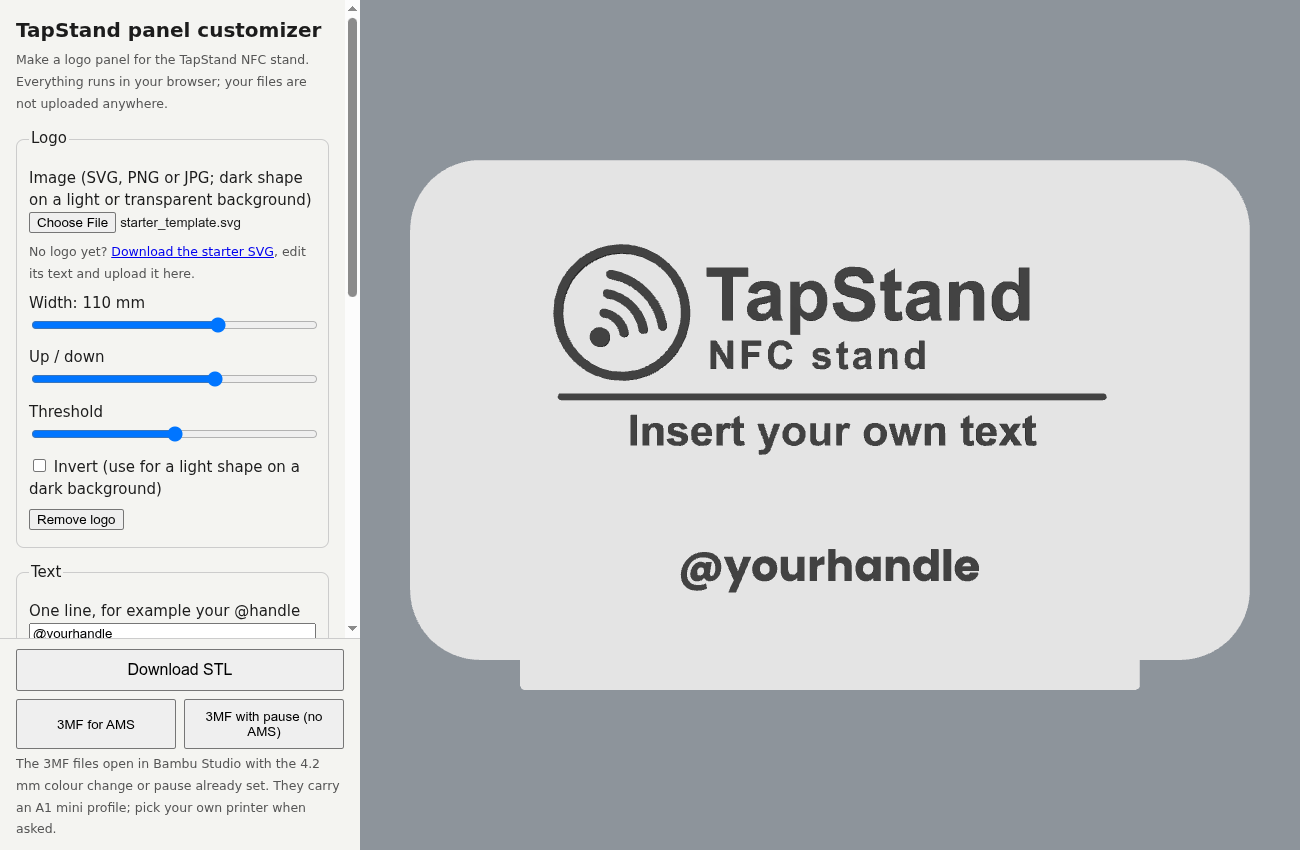
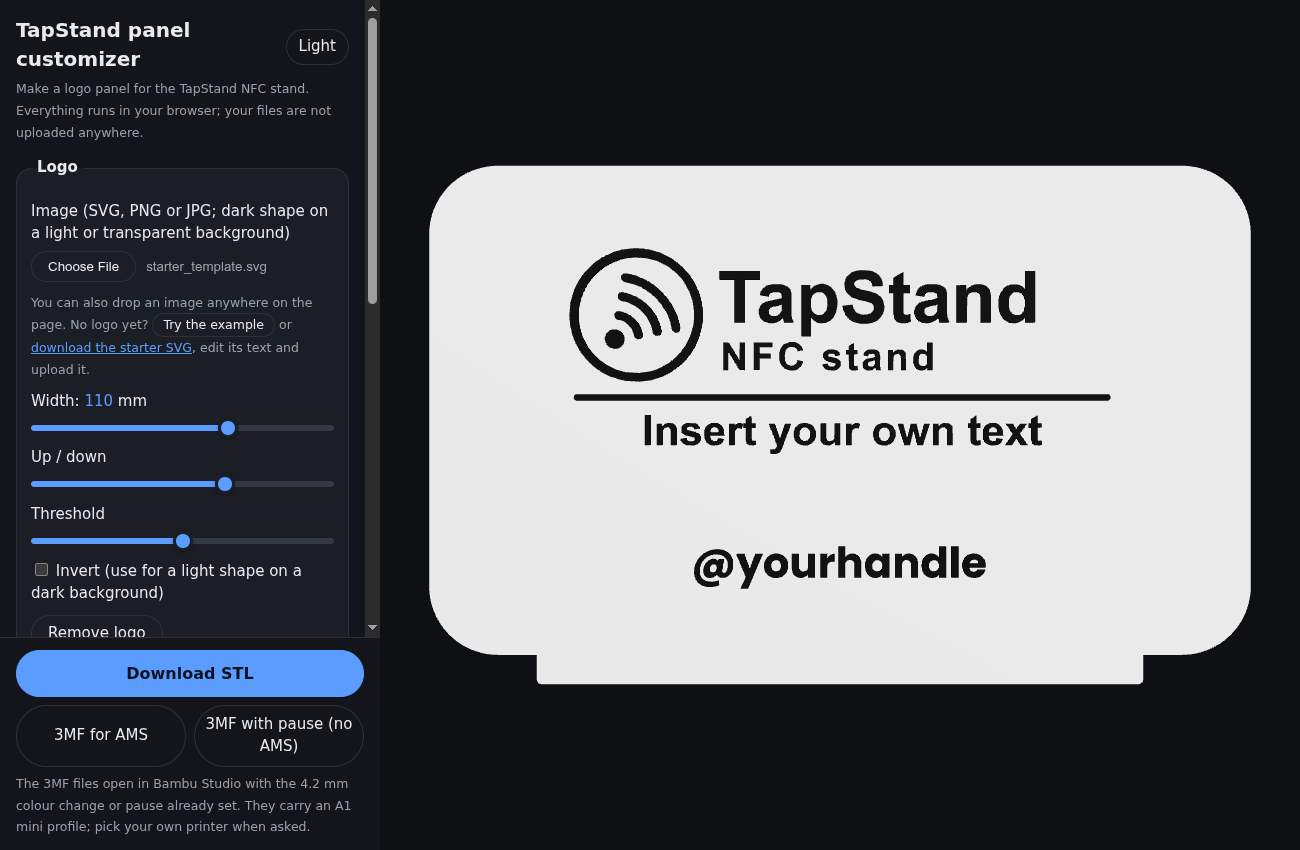
New look and easier controls
Dark theme with a light switch, instant slider preview, drag and drop,
an example button, colour pickers and a collapsible print guide.

diff --git a/index.html b/index.html
@@ -7,40 +7,92 @@
 <link rel="icon" href="data:,">
 <script type="importmap">{ "imports": { "three": "./vendor/three.module.js" } }</script>
 <style>
-  body { margin: 0; font: 15px/1.45 system-ui, sans-serif; color: #1c1c1c; background: #f4f4f1; }
+  /* Dark is the default; the button in the header switches to light and the choice is remembered. */
+  :root { color-scheme: dark; --bg: #13151a; --card: #1b1e25; --line: #2b303a; --text: #e8eaf0; --muted: #98a1b0;
+          --accent: #5b9dff; --on-accent: #0b1220; --track: #333945; --err: #ff7b7b; --warn: #f2b25c; --scene: #0e1014; }
+  :root[data-theme=light] { color-scheme: light; --bg: #f4f4f1; --card: #ffffff; --line: #d6d6d0; --text: #1c1c1c; --muted: #5c6068;
+          --accent: #2563eb; --on-accent: #ffffff; --track: #d5d8de; --err: #b00020; --warn: #8a4b00; --scene: #8d949b; }
+  body { margin: 0; font: 15px/1.45 system-ui, sans-serif; color: var(--text); background: var(--bg); }
   /* Desktop: the form scrolls in its own cell; the bar with errors, warnings and Download stays under it. */
-  main { display: grid; grid-template: minmax(0, 1fr) auto / minmax(280px, 360px) 1fr; height: 100vh; height: 100dvh; }
+  main { display: grid; grid-template: minmax(0, 1fr) auto / minmax(300px, 380px) 1fr; height: 100vh; height: 100dvh; }
   form { padding: 16px 16px 0; overflow: auto; }
-  #bar { grid-area: 2 / 1; padding: 10px 16px; background: #f4f4f1; border-top: 1px solid #ccc; max-height: 40vh; overflow: auto; }
+  #bar { grid-area: 2 / 1; padding: 12px 16px; background: var(--bg); border-top: 1px solid var(--line); max-height: 40vh; overflow: auto; }
   #bar p, #bar ul { margin: 0; }
   #bar p:not(:empty), #bar ul:not(:empty) { margin-bottom: 8px; }
+  header { display: flex; align-items: center; justify-content: space-between; gap: 8px; }
   h1 { font-size: 20px; margin: 0 0 4px; }
-  fieldset { border: 1px solid #ccc; border-radius: 8px; margin: 14px 0; padding: 10px 12px; }
-  label { display: block; margin: 8px 0; }
-  input[type=range], input[type=text], select { width: 100%; box-sizing: border-box; }
-  .err { color: #b00020; margin: 6px 0 0; }
-  #warn { color: #8a4b00; padding-left: 18px; }
-  #dl { font-size: 16px; padding: 10px 16px; width: 100%; }
-  #dl3 { display: flex; gap: 8px; margin: 8px 0 4px; }
+  a { color: var(--accent); }
+  fieldset { border: 1px solid var(--line); border-radius: 16px; background: var(--card); margin: 14px 0; padding: 12px 14px; }
+  legend { padding: 0 6px; font-weight: 600; }
+  label { display: block; margin: 10px 0; }
+  output { font-variant-numeric: tabular-nums; color: var(--accent); }
+  input[type=text], select { width: 100%; box-sizing: border-box; margin-top: 4px; padding: 8px 12px; border-radius: 12px;
+    border: 1px solid var(--line); background: var(--bg); color: var(--text); font: inherit; }
+  input[type=text]:focus-visible, select:focus-visible, button:focus-visible, input[type=range]:focus-visible { outline: 2px solid var(--accent); outline-offset: 2px; }
+  input[type=checkbox] { accent-color: var(--accent); }
+
+  /* Buttons are pills: the main download is filled, the rest are outlined. */
+  button, input[type=file]::file-selector-button { font: inherit; color: var(--text); background: transparent; border: 1px solid var(--line);
+    border-radius: 999px; padding: 7px 16px; cursor: pointer; transition: background .15s, border-color .15s, transform .1s; }
+  input[type=file] { display: block; margin-top: 6px; max-width: 100%; color: var(--muted); }
+  input[type=file]::file-selector-button { margin-right: 10px; }
+  button:hover:not(:disabled), input[type=file]::file-selector-button:hover { border-color: var(--accent); background: color-mix(in srgb, var(--accent) 14%, transparent); }
+  button:active:not(:disabled) { transform: scale(.97); }
+  button:disabled { opacity: .45; cursor: not-allowed; }
+  #dl { font-size: 16px; font-weight: 600; padding: 11px 16px; width: 100%; background: var(--accent); border-color: var(--accent); color: var(--on-accent); }
+  #dl:hover:not(:disabled) { background: color-mix(in srgb, var(--accent) 85%, white); }
+  #dl3 { display: flex; gap: 8px; margin: 8px 0 6px; }
   #dl3 button { flex: 1; padding: 8px 6px; }
-  #view { grid-area: 1 / 2 / 3 / 3; position: relative; }
+  #theme { padding: 6px 12px; flex: none; }
+
+  /* Sliders: a rounded track filled up to the thumb (--fill is set by the script) and a round thumb. */
+  input[type=range] { -webkit-appearance: none; appearance: none; width: 100%; height: 6px; margin: 12px 0 4px; border-radius: 999px; cursor: pointer;
+    background: linear-gradient(to right, var(--accent) var(--fill, 50%), var(--track) var(--fill, 50%)); }
+  input[type=range]::-webkit-slider-thumb { -webkit-appearance: none; width: 20px; height: 20px; border-radius: 50%; background: var(--accent);
+    border: 3px solid var(--card); box-shadow: 0 1px 4px rgba(0, 0, 0, .45); transition: transform .12s; }
+  input[type=range]::-moz-range-thumb { width: 14px; height: 14px; border-radius: 50%; background: var(--accent);
+    border: 3px solid var(--card); box-shadow: 0 1px 4px rgba(0, 0, 0, .45); transition: transform .12s; }
+  input[type=range]::-moz-range-track { background: transparent; }
+  input[type=range]:hover::-webkit-slider-thumb, input[type=range]:active::-webkit-slider-thumb { transform: scale(1.15); }
+  input[type=range]:hover::-moz-range-thumb, input[type=range]:active::-moz-range-thumb { transform: scale(1.15); }
+
+  #cols { display: flex; gap: 20px; }
+  #cols label { display: flex; align-items: center; gap: 8px; margin: 4px 0 8px; }
+  input[type=color] { width: 44px; height: 32px; padding: 0; border: 1px solid var(--line); border-radius: 10px; background: none; cursor: pointer; }
+  input[type=color]::-webkit-color-swatch-wrapper { padding: 3px; }
+  input[type=color]::-webkit-color-swatch, input[type=color]::-moz-color-swatch { border: none; border-radius: 7px; }
+  small button { padding: 2px 10px; font-size: inherit; }
+  details { border: 1px solid var(--line); border-radius: 16px; background: var(--card); margin: 14px 0 16px; padding: 10px 14px; }
+  summary { font-weight: 600; cursor: pointer; }
+  details ol { margin: 10px 0 4px; padding-left: 20px; }
+  details li { margin-bottom: 8px; }
+  body.drop::after { content: 'Drop your logo here'; position: fixed; inset: 12px; z-index: 5; display: grid; place-items: center; font-size: 22px; font-weight: 600;
+    color: var(--accent); border: 3px dashed var(--accent); border-radius: 24px; background: color-mix(in srgb, var(--bg) 82%, transparent); pointer-events: none; }
+  .err { color: var(--err); margin: 6px 0 0; }
+  #warn { color: var(--warn); padding-left: 18px; }
+  #view { grid-area: 1 / 2 / 3 / 3; position: relative; background: var(--scene); }
   #view canvas { position: absolute; inset: 0; width: 100%; height: 100%; display: block; }
-  small { color: #555; }
+  small { color: var(--muted); }
   /* Narrow: the page scrolls (form, then preview) and the bar sticks to the bottom of the window. */
   @media (max-width: 760px) { main { display: block; height: auto; } #view { height: 60vh; } #bar { position: sticky; bottom: 0; } }
+  @media (prefers-reduced-motion: reduce) { * { transition: none !important; } }
 </style>
+<script>try { if (localStorage.getItem('theme') === 'light') document.documentElement.dataset.theme = 'light'; } catch {}</script>
 </head>
 <body>
 <main>
   <form id="f" onsubmit="return false">
-    <h1>TapStand panel customizer</h1>
+    <header>
+      <h1>TapStand panel customizer</h1>
+      <button type="button" id="theme" aria-label="Switch between dark and light">Light</button>
+    </header>
     <small>Make a logo panel for the TapStand NFC stand. Everything runs in your browser; your files are not uploaded anywhere.</small>
 
     <fieldset>
       <legend>Logo</legend>
       <label>Image (SVG, PNG or JPG; dark shape on a light or transparent background)
         <input type="file" id="logo" accept="image/*,.svg"></label>
-      <small>No logo yet? <a href="starter_template.svg" download>Download the starter SVG</a>, edit its text and upload it here.</small>
+      <small>You can also drop an image anywhere on the page. No logo yet? <button type="button" id="example">Try the example</button> or <a href="starter_template.svg" download>download the starter SVG</a>, edit its text and upload it.</small>
       <label>Width: <output id="logoWv"></output> mm <input type="range" id="logoW" min="20" max="156" value="110"></label>
       <label>Up / down <input type="range" id="logoY" min="10" max="90" value="58"></label>
       <label>Threshold <input type="range" id="thr" min="10" max="245" value="128"></label>
@@ -65,12 +117,23 @@
       <p class="err" id="textErr" role="alert"></p>
     </fieldset>
 
-    <h2 style="font-size:16px">How to print it</h2>
+    <fieldset>
+      <legend>Colours</legend>
+      <div id="cols">
+        <label>Body <input type="color" id="colBody" value="#ffffff"></label>
+        <label>Detail <input type="color" id="colDetail" value="#000000"></label>
+      </div>
+      <small>Shown in the preview and saved in the 3MF files as the two filament colours.</small>
+    </fieldset>
+
+    <details>
+    <summary>How to print it</summary>
     <ol>
-      <li><b>With an AMS:</b> download <i>3MF for AMS</i>, load white in slot 1 and black in slot 2, slice and print. The change at 4.2 mm is already in the file.</li>
-      <li><b>Without an AMS:</b> download <i>3MF with pause</i>. Start with the body colour (white); the printer stops at 4.2 mm. Switch to the detail colour (black), purge until clean, resume.</li>
+      <li><b>With an AMS:</b> download <i>3MF for AMS</i>, load the body colour in slot 1 and the detail colour in slot 2, slice and print. The change at 4.2 mm is already in the file.</li>
+      <li><b>Without an AMS:</b> download <i>3MF with pause</i>. Start with the body colour; the printer stops at 4.2 mm. Switch to the detail colour, purge until clean, resume.</li>
       <li><b>Any other slicer:</b> download the STL. Use 0.20 mm layers, 3 walls, 5 top and 4 bottom layers, 15% infill, no supports, and add a pause or colour change at <b>4.2 mm</b> yourself (Bambu Studio or OrcaSlicer: Preview, layer slider, right-click the +, <i>Add Pause</i>; PrusaSlicer: <i>Add color change</i>).</li>
     </ol>
+    </details>
   </form>
   <div id="view" aria-label="3D preview of the panel"></div>
   <div id="bar">
@@ -108,7 +171,10 @@ catch (e) {
 }
 renderer.setPixelRatio(devicePixelRatio);
 view.append(renderer.domElement);
-const scene = new THREE.Scene(); scene.background = new THREE.Color(0x8d949b);
+const scene = new THREE.Scene();
+// The preview background follows the theme (--scene in the stylesheet).
+const paintScene = () => { scene.background = new THREE.Color(getComputedStyle(document.documentElement).getPropertyValue('--scene').trim()); };
+paintScene();
 const camera = new THREE.PerspectiveCamera(35, 1, 1, 2000); camera.position.set(0, 47, 330);
 const controls = new OrbitControls(camera, renderer.domElement); controls.target.set(0, 47, 0); controls.update();
 scene.add(new THREE.HemisphereLight(0xffffff, 0x8a8a8a, 2.4));
@@ -121,25 +187,65 @@ new ResizeObserver(() => {
   renderer.setSize(w, h, false); camera.aspect = w / h; camera.position.z = Math.max(170, 302 / camera.aspect); camera.updateProjectionMatrix(); draw();
 }).observe(view);
 
-function show(mesh, thinMesh) {
+// What the preview needs to recolour itself and to move the relief while a slider is being dragged.
+let preview = null;
+const inBox = (b, x, y) => b && x >= b[0] && x <= b[2] && y >= b[1] && y <= b[3];
+const boxOf = rings => rings.flat().reduce((b, [x, y]) => [Math.min(b[0], x), Math.min(b[1], y), Math.max(b[2], x), Math.max(b[3], y)], [Infinity, Infinity, -Infinity, -Infinity]);
+
+// boxes = { logo, text }: where each was placed, so every raised triangle can be marked as logo (1) or text (2).
+function show(mesh, thinMesh, boxes = {}) {
   for (const o of group.children) { o.geometry.dispose(); o.material.dispose(); }
   group.clear();
-  const { positions: v, indices: t } = mesh, pos = new Float32Array(t.length * 3), col = new Float32Array(t.length * 3);
+  const { positions: v, indices: t } = mesh, pos = new Float32Array(t.length * 3), part = new Uint8Array(t.length / 3);
+  const area = b => b ? (b[2] - b[0]) * (b[3] - b[1]) : Infinity;
   for (let i = 0; i < t.length; i += 3) {
-    const z = (v[t[i] * 3 + 2] + v[t[i + 1] * 3 + 2] + v[t[i + 2] * 3 + 2]) / 3, c = z > P.BODY + 0.01 ? 0.06 : 0.95;
-    for (let k = 0; k < 3; k++) { pos.set(v.subarray(t[i + k] * 3, t[i + k] * 3 + 3), (i + k) * 3); col.fill(c, (i + k) * 3, (i + k) * 3 + 3); }
+    let x = 0, y = 0, z = 0;
+    for (let k = 0; k < 3; k++) { const o = t[i + k] * 3; pos.set(v.subarray(o, o + 3), (i + k) * 3); x += v[o] / 3; y += v[o + 1] / 3; z += v[o + 2] / 3; }
+    if (z <= P.BODY + 0.01) continue;
+    const l = inBox(boxes.logo, x, y), tx = inBox(boxes.text, x, y);
+    part[i / 3] = l && tx ? (area(boxes.text) < area(boxes.logo) ? 2 : 1) : tx || !boxes.logo ? 2 : 1;
   }
   const g = new THREE.BufferGeometry();
   g.setAttribute('position', new THREE.BufferAttribute(pos, 3));
-  g.setAttribute('color', new THREE.BufferAttribute(col, 3));
+  g.setAttribute('color', new THREE.BufferAttribute(new Float32Array(pos.length), 3));
   g.computeVertexNormals();
   group.add(new THREE.Mesh(g, new THREE.MeshStandardMaterial({ vertexColors: true, roughness: 0.85 })));
+  // A sheet just under the top face, so no hole shows where the relief was while it is being moved.
+  const sheet = new THREE.Mesh(new THREE.PlaneGeometry(P.W - 2 * P.MARGIN, P.H - 2 * P.MARGIN), new THREE.MeshStandardMaterial({ roughness: 0.85 }));
+  sheet.position.set(0, P.H / 2, P.BODY - 0.02); group.add(sheet);
+  let thin = null;
   if (thinMesh) {
     const r = new THREE.BufferGeometry();
     r.setAttribute('position', new THREE.BufferAttribute(thinMesh.positions, 3));
     r.setIndex(new THREE.BufferAttribute(thinMesh.indices, 1));
-    group.add(new THREE.Mesh(r, new THREE.MeshBasicMaterial({ color: 0xe02020 })));
+    thin = new THREE.Mesh(r, new THREE.MeshBasicMaterial({ color: 0xe02020 })); group.add(thin);
   }
+  preview = { g, sheet, thin, part, pos0: pos.slice(), at: { logoW: +$('logoW').value, logoY: +$('logoY').value, textH: +$('textH').value, textY: +$('textY').value } };
+  paint();
+}
+
+// Colour the preview from the two pickers (no rebuild needed).
+function paint() {
+  if (!preview) return;
+  const body = new THREE.Color($('colBody').value), detail = new THREE.Color($('colDetail').value), col = preview.g.attributes.color;
+  for (let f = 0; f < preview.part.length; f++) { const c = preview.part[f] ? detail : body; for (let k = 0; k < 3; k++) col.setXYZ(f * 3 + k, c.r, c.g, c.b); }
+  col.needsUpdate = true; preview.sheet.material.color.copy(body);
+  draw();
+}
+
+// While a size or position slider moves, shift the raised triangles straight away; the exact rebuild follows.
+function nudge() {
+  if (!preview) return;
+  const { at, part, pos0 } = preview, p = preview.g.attributes.position;
+  const sl = +$('logoW').value / at.logoW, st = +$('textH').value / at.textH, ly = +$('logoY').value, ty = +$('textY').value;
+  for (let f = 0; f < part.length; f++) {
+    if (!part[f]) continue;
+    const s = part[f] === 1 ? sl : st, y0 = part[f] === 1 ? at.logoY : at.textY, y1 = part[f] === 1 ? ly : ty;
+    for (let k = 0; k < 3; k++) { const i = (f * 3 + k) * 3; p.setXY(f * 3 + k, pos0[i] * s, (pos0[i + 1] - y0) * s + y1); }
+  }
+  p.needsUpdate = true;
+  if (preview.thin) preview.thin.visible = false;   // the red marks belong to the old position
+  $('logoWv').value = $('logoW').value; $('textHv').value = `${$('textH').value} mm`;
   draw();
 }
 
@@ -183,14 +289,14 @@ async function setFont(src) {
 async function rebuild() {
   $('logoWv').value = $('logoW').value;
   let letters = `${$('textH').value} mm`;
-  let imgErr = logoErr, textErr = fontErr, buildErr = '', shapes = [], out = null;
+  let imgErr = logoErr, textErr = fontErr, buildErr = '', shapes = [], out = null, boxes = {};
   try {
     if (logoRings) {
       // specks under half the minimum width cannot print; what is left must be few enough points to build quickly
       const fit = fitLogo(logoRings, { width: +$('logoW').value, cx: 0, cy: +$('logoY').value, flipY: true }, P.MIN_FEATURE / 2, MAX_POINTS);
       if (fit.problem === 'specks') imgErr = 'Nothing in this image is big enough to print at this width. Make the logo wider.';
       else if (fit.problem) imgErr = DETAILED;
-      else shapes.push({ rings: fit.rings, fillRule: 'EvenOdd' });
+      else { shapes.push({ rings: fit.rings, fillRule: 'EvenOdd' }); boxes.logo = boxOf(fit.rings); }
     }
     const text = $('text').value.trim();
     if (text && font) {
@@ -200,7 +306,7 @@ async function rebuild() {
         const fit = place(textRings(font, text, +$('textH').value), { maxWidth: P.W - 2 * P.MARGIN - 4, cx: 0, cy: +$('textY').value, flipY: true });
         const real = (+$('textH').value * fit.scale).toFixed(1);   // a long line is shrunk to the panel width
         if (+real < +$('textH').value) letters += ` → ${real} mm to fit`;
-        shapes.push({ rings: fit.rings, fillRule: 'NonZero' });
+        shapes.push({ rings: fit.rings, fillRule: 'NonZero' }); boxes.text = boxOf(fit.rings);
       }
     }
     if (wasm.HEAPU8.length > HEAP_LIMIT) wasm = await init();
@@ -208,7 +314,7 @@ async function rebuild() {
   } catch (e) {
     console.error(e);
     buildErr = 'This design could not be turned into a solid. Try a simpler image or shorter text.';
-    shapes = [];
+    shapes = []; boxes = {};
     // a failed build may have left the heap full or broken: show the blank panel from a fresh one
     try { wasm = await init(); out = buildPanel(wasm, []); } catch (e2) { console.error(e2); out = null; }
   }
@@ -220,15 +326,53 @@ async function rebuild() {
   // from the mesh, not the inputs: a design that was cut off entirely leaves a plain one-colour panel
   stl = out.stl; mesh = out.mesh; hasRelief = mesh.positions.some((z, i) => i % 3 === 2 && z > P.BODY + 0.01);
   if (!hasRelief) $('dlAms').disabled = $('dlPause').disabled = true;   // a one-colour panel has nothing to switch
-  show(out.mesh, out.thinMesh);
+  show(out.mesh, out.thinMesh, boxes);
+}
+
+// Theme switch, remembered between visits.
+const setTheme = light => {
+  if (light) document.documentElement.dataset.theme = 'light'; else delete document.documentElement.dataset.theme;
+  $('theme').textContent = light ? 'Dark' : 'Light';
+  try { localStorage.setItem('theme', light ? 'light' : 'dark'); } catch {}
+  paintScene(); draw();
+};
+$('theme').addEventListener('click', () => setTheme(document.documentElement.dataset.theme !== 'light'));
+$('theme').textContent = document.documentElement.dataset.theme === 'light' ? 'Dark' : 'Light';
+// Fill each slider's track up to its thumb.
+for (const r of document.querySelectorAll('input[type=range]')) {
+  const fill = () => r.style.setProperty('--fill', `${(r.value - r.min) / (r.max - r.min) * 100}%`);
+  r.addEventListener('input', fill); fill();
 }
 
 let timer, dirty = false;
 const soon = fn => { clearTimeout(timer); timer = setTimeout(fn, 150); };
 const run = () => { if (dirty) { dirty = false; traceLogo(); } rebuild(); };
-for (const id of ['logoW', 'logoY', 'text', 'textH', 'textY']) $(id).addEventListener('input', () => soon(run));
+for (const id of ['logoW', 'logoY', 'textH', 'textY']) $(id).addEventListener('input', () => { nudge(); soon(run); });
+$('text').addEventListener('input', () => soon(run));
+for (const id of ['colBody', 'colDetail']) $(id).addEventListener('input', paint);
 for (const id of ['thr', 'inv']) $(id).addEventListener('input', () => { dirty = true; soon(run); });
 $('logo').addEventListener('change', e => setLogo(e.target.files[0]));
+// A file from somewhere other than the file dialog: show its name in the file input, then load it.
+function takeLogo(file) {
+  try { const dt = new DataTransfer(); dt.items.add(file); $('logo').files = dt.files; } catch {}
+  return setLogo(file);
+}
+$('example').addEventListener('click', async () => {
+  try { await takeLogo(new File([await (await fetch('starter_template.svg')).blob()], 'starter_template.svg', { type: 'image/svg+xml' })); }
+  catch { logoErr = 'The example could not be loaded.'; rebuild(); }
+});
+// Drop an image (or a font file) anywhere on the page.
+let dragDepth = 0;
+const hasFiles = e => [...(e.dataTransfer?.types || [])].includes('Files');
+addEventListener('dragenter', e => { if (hasFiles(e)) { dragDepth++; document.body.classList.add('drop'); } });
+addEventListener('dragleave', e => { if (hasFiles(e) && --dragDepth <= 0) { dragDepth = 0; document.body.classList.remove('drop'); } });
+addEventListener('dragover', e => { if (hasFiles(e)) e.preventDefault(); });
+addEventListener('drop', e => {
+  if (!hasFiles(e)) return;
+  e.preventDefault(); dragDepth = 0; document.body.classList.remove('drop');
+  const file = e.dataTransfer.files[0]; if (!file) return;
+  if (/\.(ttf|otf)$/i.test(file.name)) { prevFont = 'upload'; $('font').value = 'upload'; setFont(file); } else takeLogo(file);
+});
 $('logoClear').addEventListener('click', () => { $('logo').value = ''; setLogo(null); });
 let prevFont = $('font').value;
 const restoreFont = () => { $('font').value = prevFont; };
@@ -253,7 +397,11 @@ async function save3mf(kind, name) {
     const { project3mf } = await import('./threemf.js');
     settings3mf ??= await (await fetch('bambu_settings.json')).json();
     const z = Math.round((P.BODY + P.STEP) * 100) / 100;
-    save(project3mf({ settings: settings3mf, objects: [{ name: 'panel', mesh, plate: 0, cx: 90, cy: 90 }], plates: [{ events: [{ z, kind }] }] }), name, 'model/3mf');
+    // the two picked colours become the two filaments; anything but white-then-black gets the larger purge volume both ways
+    const colours = [$('colBody').value.toUpperCase(), $('colDetail').value.toUpperCase()], m = settings3mf.flush_volumes_matrix;
+    const settings = { ...settings3mf, filament_colour: colours, filament_multi_colour: colours };
+    if (colours.join() !== settings3mf.filament_colour.join()) { const big = String(Math.max(+m[1], +m[2])); settings.flush_volumes_matrix = ['0', big, big, '0']; }
+    save(project3mf({ settings, objects: [{ name: 'panel', mesh, plate: 0, cx: 90, cy: 90 }], plates: [{ events: [{ z, kind }] }] }), name, 'model/3mf');
   } catch (e) { console.error(e); $('buildErr').textContent = 'The 3MF file could not be made. The STL download still works.'; }
 }
 $('dlAms').addEventListener('click', () => save3mf('colour', 'panel__AMS_colour_change_at_4.2mm.3mf'));

diff --git a/README.md b/README.md
@@ -21,16 +21,17 @@ and filament swap. No AMS needed, though it works with one too.
 ## How to use it
 
 1. Open the link above. Nothing to install.
-2. Upload a logo (SVG, PNG or JPG; a dark shape on a light or transparent background) and, if you
-   like, type one line of text such as your @handle. No logo yet? Download the starter SVG from the
-   page, change its text and upload that.
+2. Upload a logo, or drop it anywhere on the page (SVG, PNG or JPG; a dark shape on a light or
+   transparent background) and, if you like, type one line of text such as your @handle. No logo
+   yet? Press *Try the example*, or download the starter SVG, change its text and upload that.
 3. Adjust size and position while watching the 3D preview. Details too thin to print are shown in
-   red.
+   red. Pick the body and detail colours to see how your filaments will look; the 3MF files carry
+   those two colours.
 4. Download the file that suits your printer:
 
 | Download | For | What you do |
 |---|---|---|
-| **3MF for AMS** | Bambu printers with an AMS | White in slot 1, black in slot 2, slice and print. The colour change at 4.2 mm is already in the file. |
+| **3MF for AMS** | Bambu printers with an AMS | Body colour in slot 1, detail colour in slot 2, slice and print. The colour change at 4.2 mm is already in the file. |
 | **3MF with pause (no AMS)** | Bambu printers without an AMS | Start with the body colour. The printer stops at 4.2 mm: swap to the detail colour, purge, resume. |
 | **STL** | Any other slicer | 0.20 mm layers, 3 walls, 5 top and 4 bottom layers, 15% infill. Add a pause or colour change at 4.2 mm yourself. |
 
